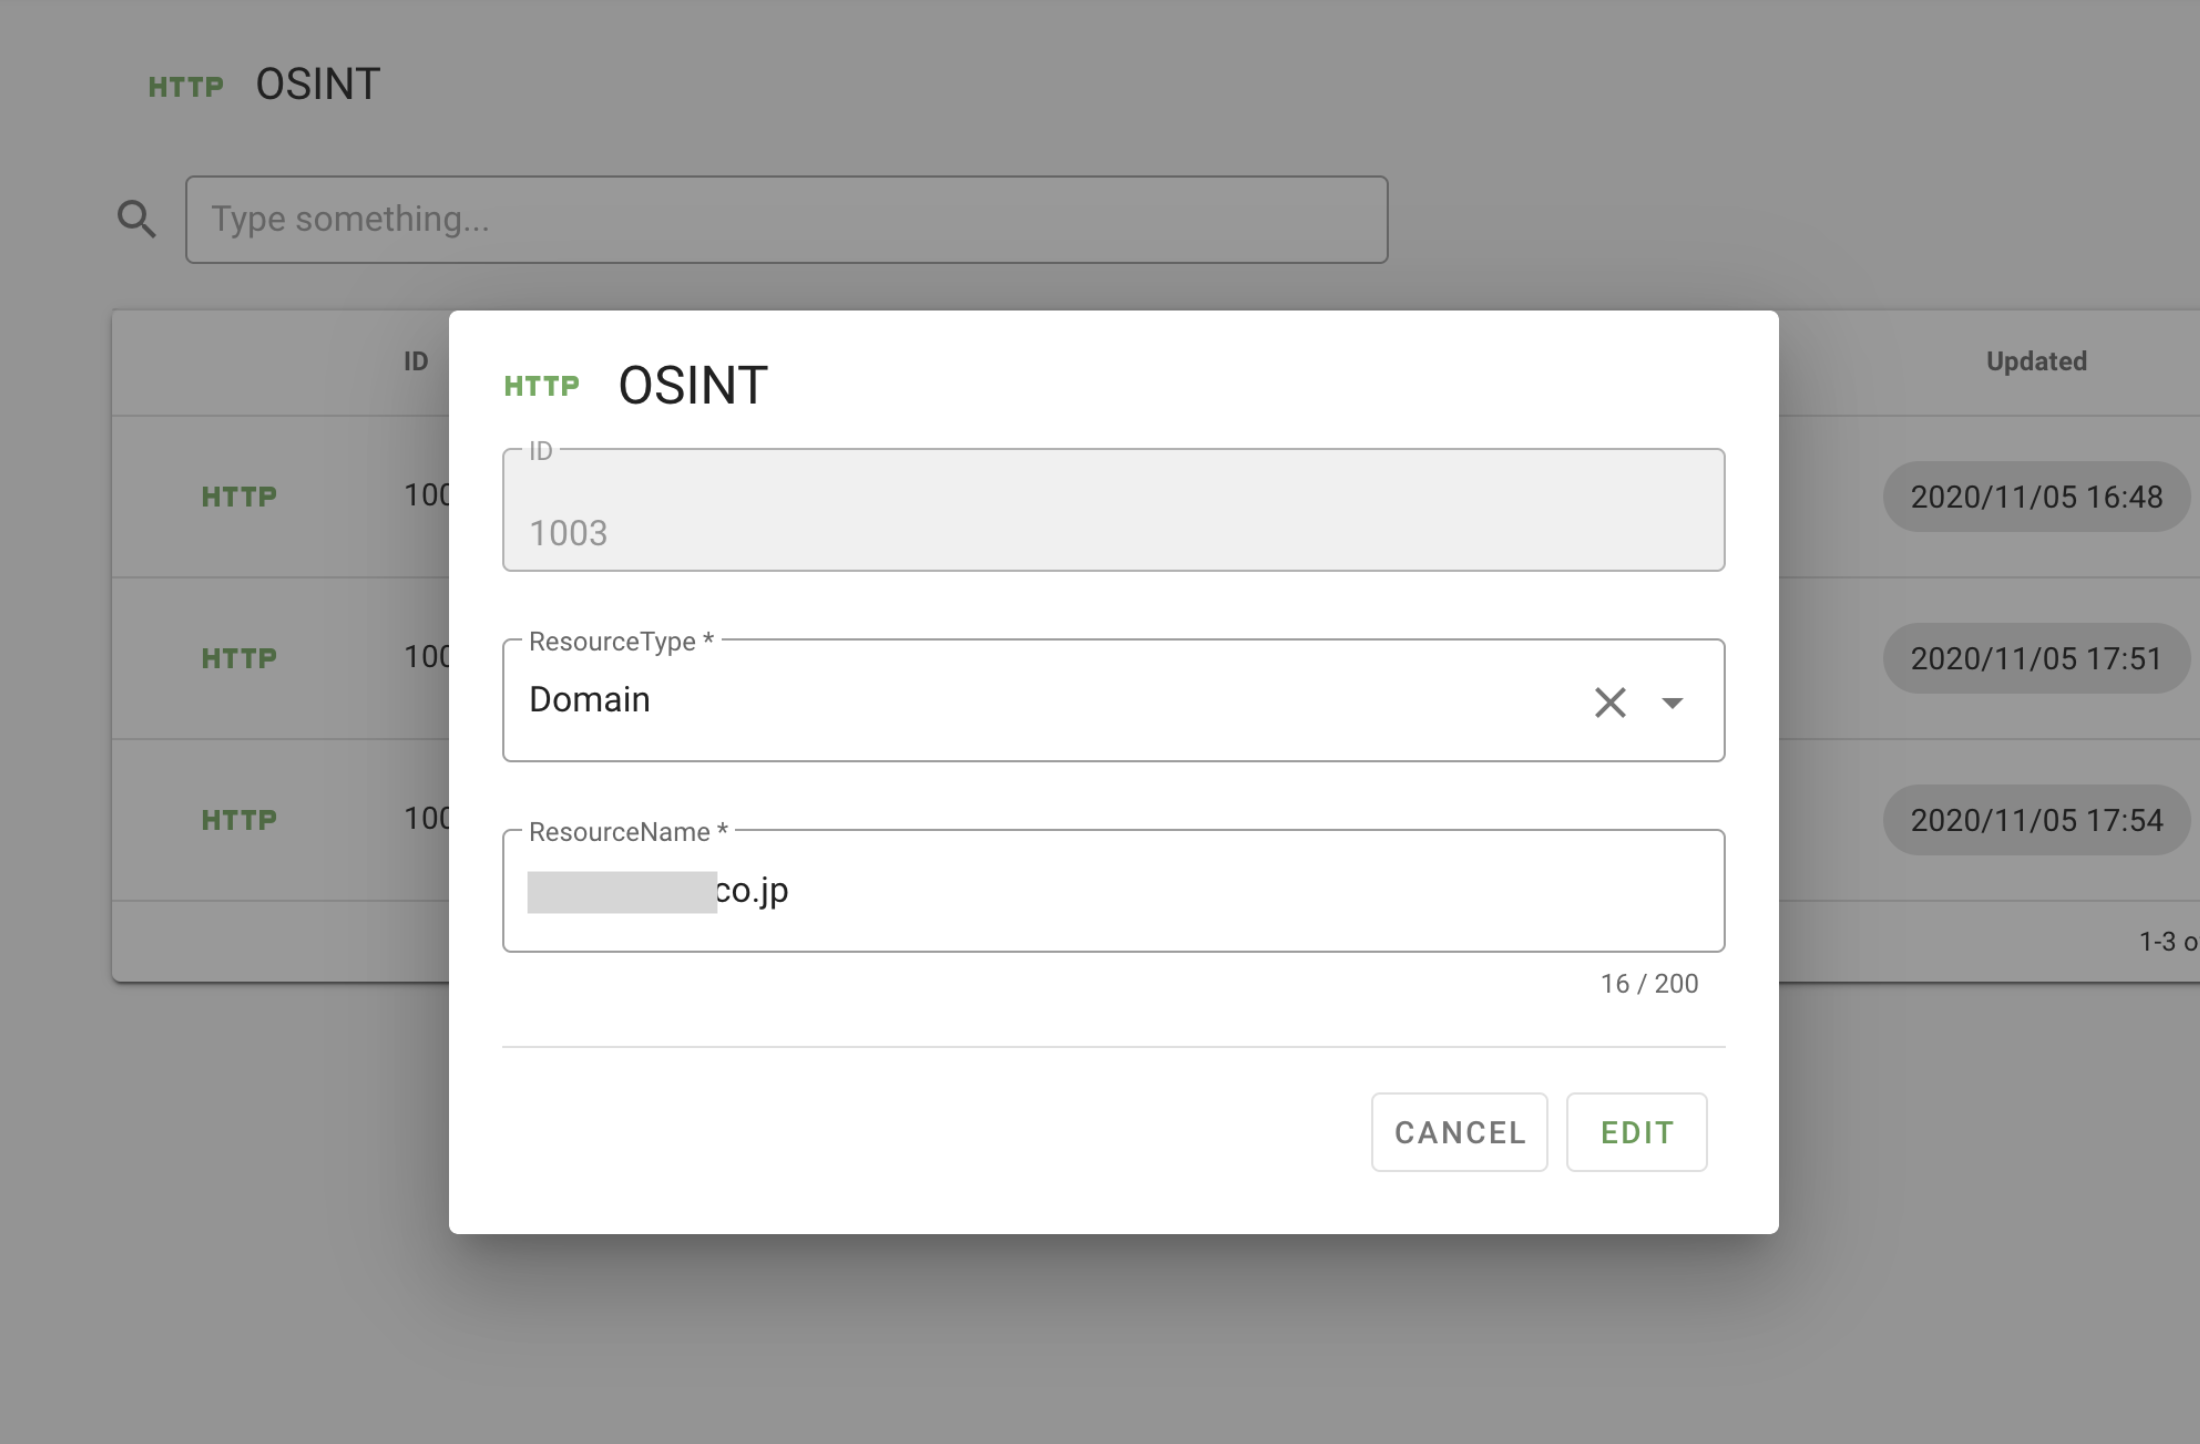
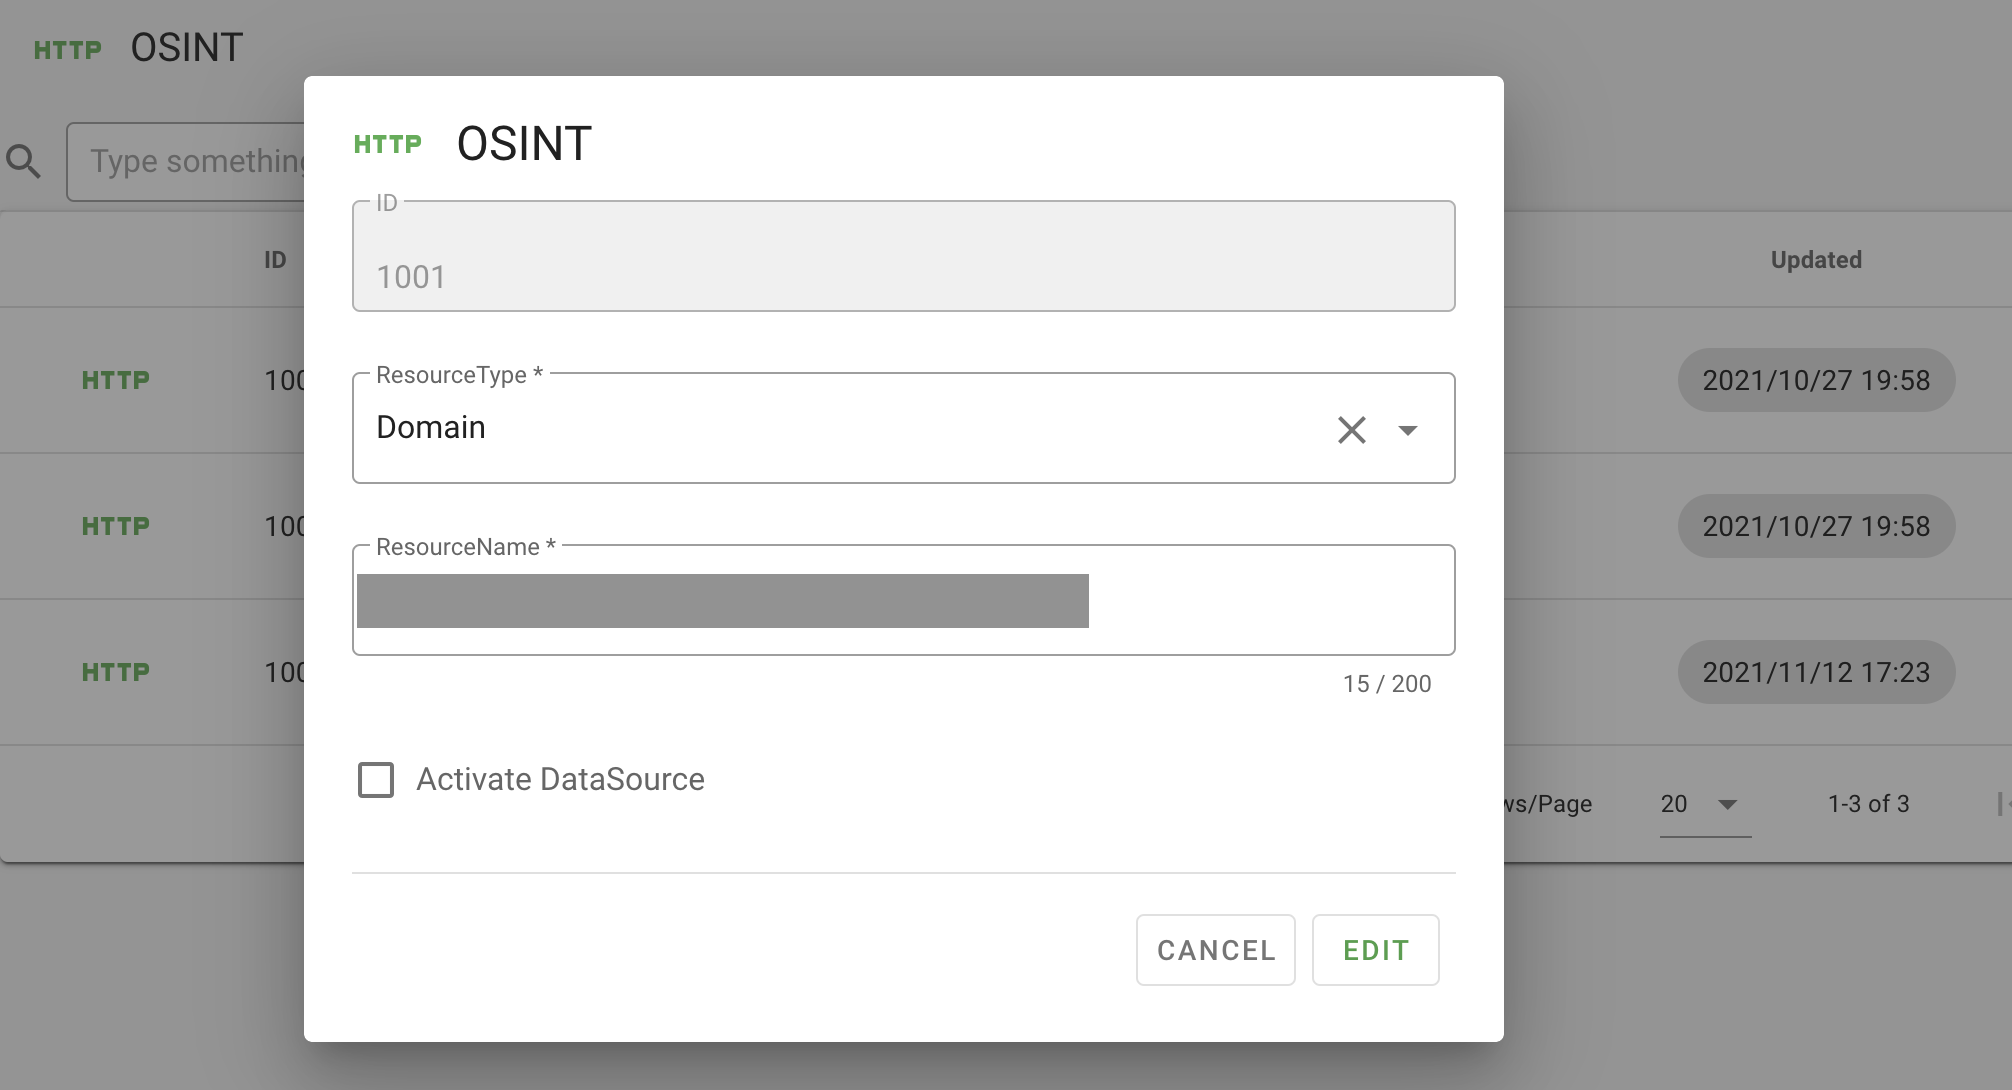
fix osint
website追加に伴い以下を行いました
- websiteのコンセプト追加
- osint周りの構成変更

diff --git a/docs/osint/datasource.md b/docs/osint/datasource.md
@@ -6,11 +6,13 @@
 1. メニューより`OSINT > OSINT`をクリックします
 2. 画面右側の`NEW`をクリックします
 3. 以下の項目を入力し`EDIT`をクリックしてください
-    - **ResourceType**: Domainを指定（※現状Domain検索のOSINTのみサポート）
-    - **ResourceName**: OSINTでモニタリングしたいDomain名を入力します
+    - **ResourceType**: Domain,Websiteから指定してください
+    - **ResourceName**: OSINTでモニタリングしたいDomain名またはウェブサイトのURLを入力します
+    - **Activate DataSource**: チェックを入れることで、登録時にそのリソースタイプで利用可能なデータソースが有効化されます
     - ![新規OSINT](/img/osint/osint_new.png){style="width:500px"}
 4. OSINTリソースを登録後、一覧クリックしDataSource画面を開きます
 5. DataSource一覧中のをクリックしダイアログを開き`ATTACH`をクリックします
+    - DataSource一覧には、設定したリソースタイプで有効なもののみ表示されます
     - ![OSINTアタッチ](/img/osint/osint_attach.png){style="width:400px"}
 6. `osint:subdomain`の場合はDetectWordを登録することで、通常インターネット公開されてはいけないWEBサイトをモニタリングすることができます
     - 初期状態では以下のキーワードが登録されています

diff --git a/docs/osint/website_concept.md b/docs/osint/website_concept.md
@@ -1,0 +1,22 @@
+# Website
+
+あなたが所有しているウェブサイトを登録することで、外部からサイトで使用されている技術を調査します
+
+外部からサイトにアクセスすることで、サイトで使用されているツールの名前、バージョンなどを取得することができます
+
+## フォーマット
+
+RISKENへデータを取り込む際に、以下のメタデータを付加します
+
+| 項目            | 説明                                            |
+| -------------- | ---------------------------------------------- |
+| `DataSource`   | osint:website (固定)                          |
+| `ResourceName` | 検知した使用されている技術名                        |
+| `Description`  | 説明                                            |
+| `Score`        | [スコアリング](/osint/domain_concept/#_2)参照      |
+| `Tag`          | `osint` `website` `{サイトのURL}` `{使用されている技術のカテゴリ}` |
+
+## スコアリング
+
+現状、技術情報を収集するのみのためスコアは一律`0.1`で登録されます
+

diff --git a/docs/osint/overview_osint.md b/docs/osint/overview_osint.md
@@ -3,3 +3,10 @@
 [OSINT :octicons-link-external-24:](https://en.wikipedia.org/wiki/Open-source_intelligence){ target="_blank" } とは **O** pen- **S** ource- **INT** elligenceの略でインターネットに公開されてる情報をもとにデータ収集・セキュリティ分析をするためのツール群のことです
 
 RISKENではOSINTツールを利用してセキュリティ脅威情報を継続的に収集することができます
+
+## OSINTの登録フロー
+
+OSINTのデータソース設定には以下の作業が必要です
+
+1. RISKENに[対象のリソースの登録](/osint/datasource/)を行う
+2. OSINTの[データソースを有効](/osint/scan/)にする
